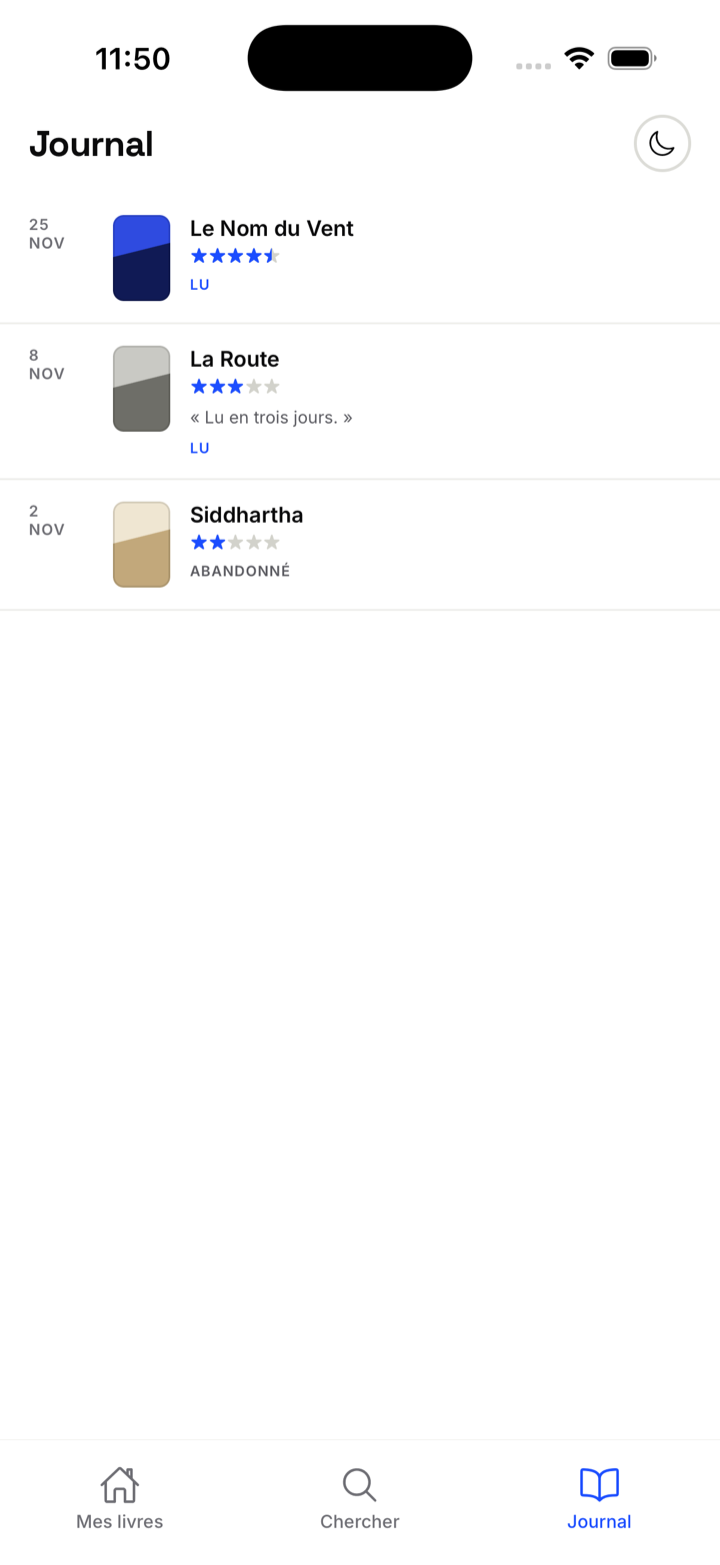
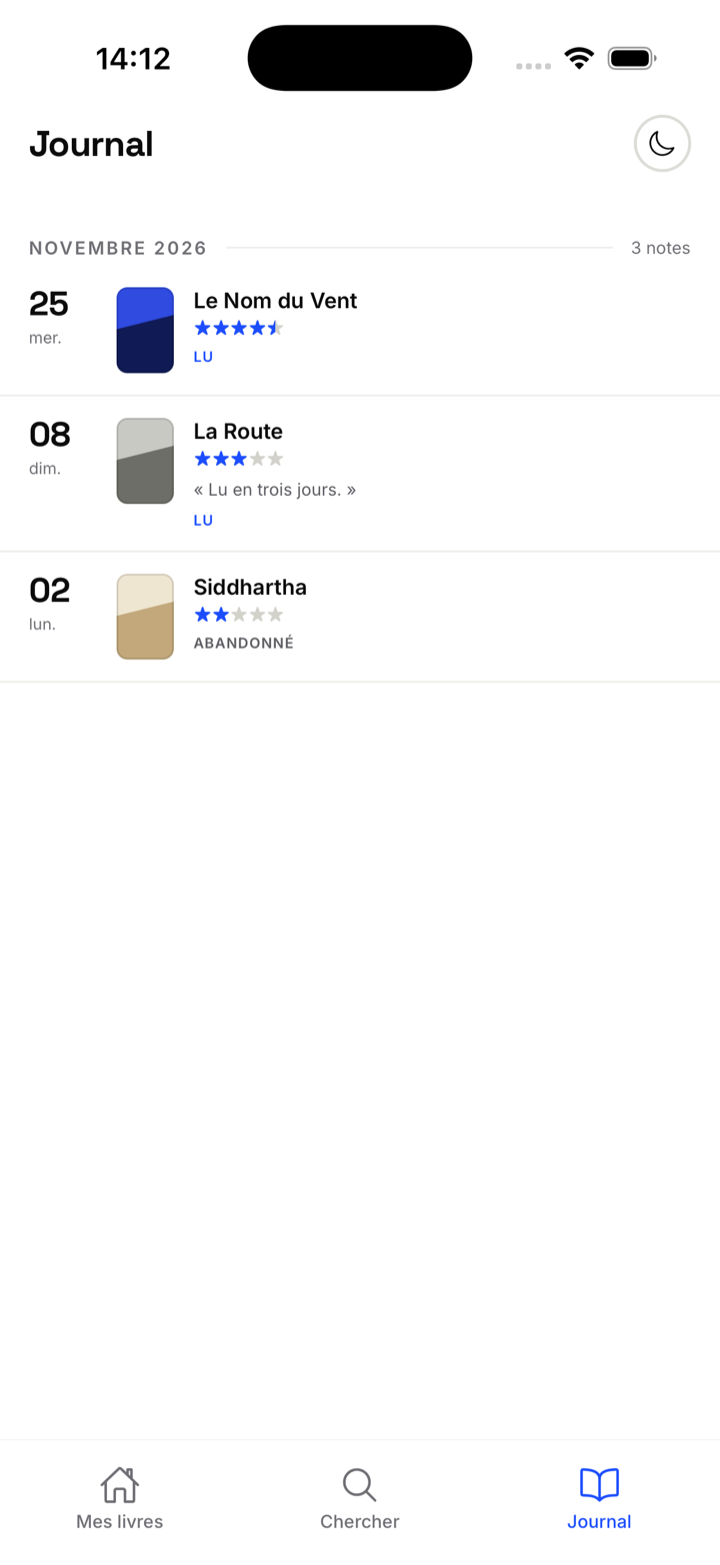
Spine : parcours de notation Goodreads corrigé, dates lisibles, captures à jour

diff --git a/app/etudes-de-cas/spine/page.tsx b/app/etudes-de-cas/spine/page.tsx
@@ -18,7 +18,7 @@ const SCREENS: Screen[] = [
   {
     n: "01",
     title: "Mes livres — la bibliothèque avant le flux",
-    img: "/images/spine/case-1-mes-livres.png",
+    img: "/images/spine/case-1-mes-livres-2.png",
     alt: "Écran Mes livres de Spine",
     rows: [
       {
@@ -40,7 +40,7 @@ const SCREENS: Screen[] = [
   {
     n: "02",
     title: "Chercher — reconnaître, pas lire",
-    img: "/images/spine/case-2-chercher.png",
+    img: "/images/spine/case-2-chercher-2.png",
     alt: "Écran Chercher de Spine",
     rows: [
       {
@@ -60,7 +60,7 @@ const SCREENS: Screen[] = [
   {
     n: "03",
     title: "La fiche — décider en une hauteur d'écran",
-    img: "/images/spine/case-3-fiche.png",
+    img: "/images/spine/case-3-fiche-2.png",
     alt: "Écran fiche livre de Spine",
     rows: [
       {
@@ -80,11 +80,12 @@ const SCREENS: Screen[] = [
   {
     n: "04",
     title: "La notation — deux gestes, une demi-étoile",
-    img: "/images/spine/case-4-notation.png",
+    img: "/images/spine/case-4-notation-2.png",
     alt: "Écran de notation de Spine",
     rows: [
       {
-        problem: "5 étoiles entières, dans un formulaire séparé de la fiche.",
+        problem:
+          "Les étoiles sont sur la fiche, mais les toucher ouvre une feuille qu'il faut encore valider, et l'échelle reste entière.",
         decision:
           "Une feuille modale par-dessus la fiche : cinq étoiles de 32 pt, le chiffre en 38 pt, deux gestes.",
       },
@@ -101,12 +102,18 @@ const SCREENS: Screen[] = [
   {
     n: "05",
     title: "Le journal — la trace datée",
-    img: "/images/spine/case-5-journal.png",
+    img: "/images/spine/case-5-journal-2.png",
     alt: "Écran Journal de Spine",
     rows: [
       {
-        problem: "La note remplace la précédente, sans date.",
-        decision: "Chaque note crée une entrée datée : relire crée une deuxième entrée au lieu d'écraser la première.",
+        problem: "La note remplace la précédente : aucune trace de ce qu'on a lu avant.",
+        decision: "Chaque note crée une entrée, et relire en crée une deuxième au lieu d'écraser la première.",
+      },
+      {
+        problem:
+          "Des dates réduites à un jour et un mois (« 08 NOV ») : ni l'année, ni le jour de la semaine, et ça ne raconte rien.",
+        decision:
+          "Un en-tête de mois (« novembre 2026 »), le jour en gros et le jour de la semaine en clair ; la date complète reste dans le libellé vocal.",
       },
       {
         problem: "Aucun état hors ligne : la note est perdue sans réseau.",
@@ -197,15 +204,15 @@ export default function SpineCaseStudy() {
         <Box sx={{ display: "grid", gap: 2, mb: 4 }}>
           {[
             [
-              "Noter demande 3 écrans : fiche → « Write a review » → formulaire → 5 étoiles entières",
-              "On ne note pas en passant. La note arrive des jours plus tard, ou jamais.",
+              "Noter demande de trouver le livre, d'ouvrir sa fiche, de viser les étoiles — puis une feuille s'ouvre et il faut encore confirmer",
+              "Quatre étapes pour un geste. On ne note pas en passant, donc on ne note pas.",
             ],
             [
               "La recherche rend une liste de texte, livre et éditions mélangés",
               "On cherche un livre vu en librairie et on tombe sur une édition de 1994.",
             ],
             [
-              "Aucune trace datée : une note écrase la précédente",
+              "Aucune date : une note écrase la précédente",
               "Impossible de dire « lu en novembre », ni de relire sans perdre l'ancienne note.",
             ],
           ].map(([p, c]) => (

diff --git a/content/projects/spine.md b/content/projects/spine.md
@@ -3,13 +3,13 @@ title: "Spine - Refonte de la notation et de la découverte de livres"
 description: "Refonte UX de deux parcours de Goodreads : noter un livre et le retrouver. Cinq écrans React Native, deux thèmes, et une équipe d'agents pour la conception"
 date: "2026-11-25"
 tags: ["React Native", "Expo", "TypeScript", "UX", "Design system", "Agents LLM"]
-image: "/images/spine/case-1-mes-livres.png"
+image: "/images/spine/case-1-mes-livres-2.png"
 images:
-  - /images/spine/case-1-mes-livres.png
-  - /images/spine/case-2-chercher.png
-  - /images/spine/case-3-fiche.png
-  - /images/spine/case-4-notation.png
-  - /images/spine/case-5-journal.png
+  - /images/spine/case-1-mes-livres-2.png
+  - /images/spine/case-2-chercher-2.png
+  - /images/spine/case-3-fiche-2.png
+  - /images/spine/case-4-notation-2.png
+  - /images/spine/case-5-journal-2.png
 github: "https://github.com/jennafauconnier/spine"
 caseStudy: "/etudes-de-cas/spine"
 featured: true
@@ -23,10 +23,10 @@ Le projet va du cadrage produit au code : brief, user stories, plan technique, t
 
 ## Le problème
 
-- **Noter coûte trois écrans** : fiche → « Write a review » → formulaire web → cinq étoiles entières. On ne note pas en passant, donc on ne note pas.
+- **Noter coûte quatre étapes** : il faut trouver le livre, ouvrir sa fiche, viser les étoiles — et une feuille s'ouvre encore pour confirmer. On ne note pas en passant, donc on ne note pas.
 - **Impossible de mettre 4,5** : l'échelle est entière, alors qu'un lecteur distingue rarement 3 et 4 d'un cran franc.
 - **La recherche est une liste de texte** : le livre et ses éditions se confondent, la couverture — ce qu'on reconnaît d'un livre — est une vignette de 40 px.
-- **Aucune trace datée** : une note écrase la précédente. Impossible de dire « lu en novembre », ni de relire un livre en gardant les deux notes.
+- **Aucune date** : une note écrase la précédente, et l'unique repère est un « 08 NOV » sans année ni jour de semaine. Impossible de dire « lu en novembre », ni de relire un livre en gardant les deux notes.
 
 ## Les cinq écrans
 
@@ -34,7 +34,7 @@ Le projet va du cadrage produit au code : brief, user stories, plan technique, t
 - **Chercher** — une ligne par résultat : couverture, titre, auteur · année, et un seul bouton « Ajouter ». On sait en un regard si le livre est déjà dans sa bibliothèque.
 - **Fiche** — quatre lignes d'information, une note communautaire, un extrait, un résumé, et un bouton pleine largeur en bas. On décide en une hauteur d'écran, sans scroller.
 - **Notation** — une feuille modale par-dessus la fiche : cinq étoiles de 32 pt, la moitié gauche donnant la demi-note, le chiffre en 38 pt. Deux gestes, le livre reste visible, et « 4,5 / 5 » lève toute ambiguïté.
-- **Journal** — chaque note crée une entrée datée, avec avis et statut. Relire crée une deuxième entrée au lieu d'écraser la première.
+- **Journal** — chaque note crée une entrée datée, groupée par mois (« novembre 2026 »), avec le jour en gros, le jour de la semaine en clair et la date complète pour le lecteur d'écran. Relire crée une deuxième entrée au lieu d'écraser la première.
 
 ## Design system
 
